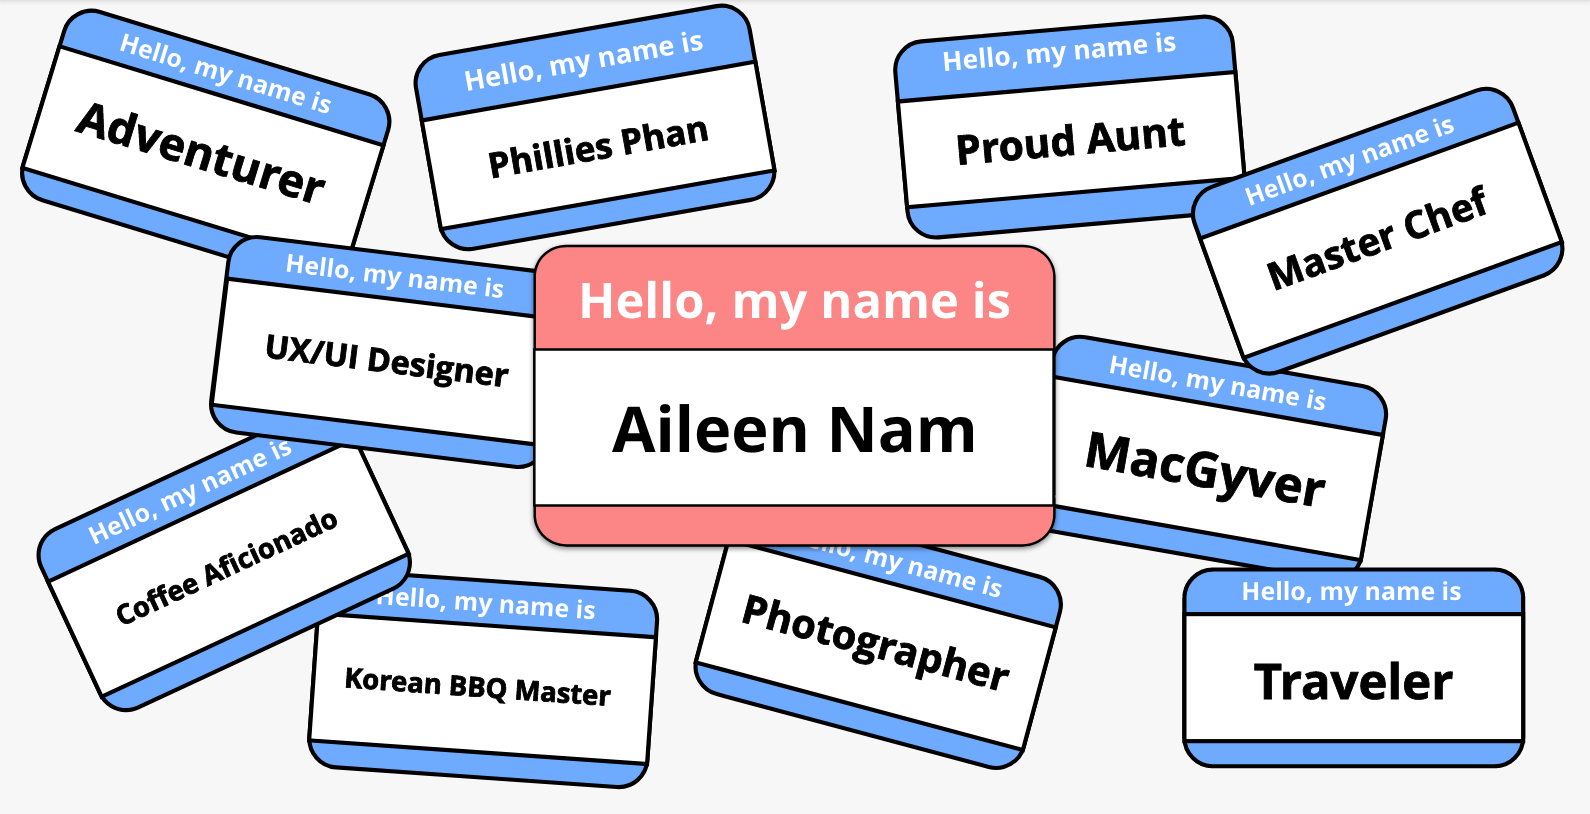
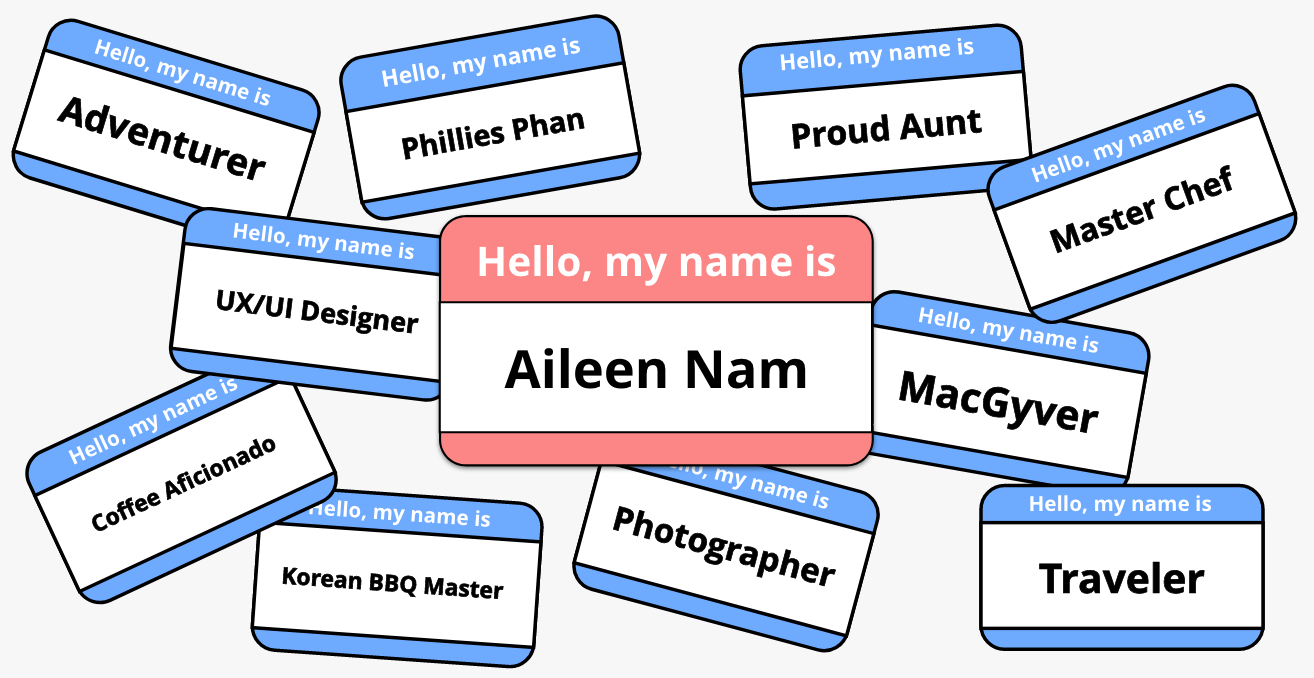
UI interaction

diff --git a/index.html b/index.html
@@ -4,52 +4,54 @@
     <title>Aileen Nam's Portfolio</title>
     <link rel="stylesheet" href="css/style.css" type="text/css">
     <link href="https://fonts.googleapis.com/css2?family=Oxygen&display=swap" rel="stylesheet">
+    <script src="https://ajax.googleapis.com/ajax/libs/jquery/3.4.1/jquery.min.js"></script>
+    <script src="js/index.js"></script>
+    <meta charset="UTF-8">
 </head>
 <body>
     <nav>
         <div class="logo">
             <img src="images/logo.png" width="75px" height="75px">
-            <p>Aileen Nam</p>
+            <p><a href="#hero" class="slide-selection">Aileen Nam</a></p>
         </div>
         <div class="navigation">
             <ul>
-                <li>About Me</li>
-                <li>My Work</li>
-                <li>Say Hi</li>
+                <li><a href="#about" class="slide-selection">About Me</a></li>
+                <li><a href="#work" class="slide-selection">My Work</a></li>
+                <li><a href="#contact" class="slide-selection">Say Hi</a></li>
             </ul>
         </div>
     </nav>
-    </header>
-    <section class="heroImg">
-        <div class="content">
-            <img src="images/hero.png" alt="name tags" width="100%">
-        </div>
+    <section id="hero">
+            <img class="heroImg" src="images/hero.png" alt="" width="95%">
     </section>
-    <section class="aboutmeContainer">
+    <section class="aboutmeContainer" id="about">
         <div class="left">
             <img class="propic" src="images/propic.jpeg" alt="my picture" width="400px" height="500px">
         </div>
         <div class="right">
-            <h1 class="aboutme"><strong>HELLO! <br>My name is Aileen.</strong></h1>
-            <p class="aboutme">I’m a Korean-American UX/UI designer 
-                currently living in: <br><s>Philly</s> 
-                <br><s>Seoul</s> 
-                <br>the DMV area. 
-                <br>
-                <br>
+            <img src="images/Group 1.svg" alt="" width="400px">
+            <p class="aboutme">I’m a
+                    <td>&#127472;&#127479;
+                    <td>&#x1F1FA;&#x1F1F8;
+            UX/UI designer currently living in: <br><s>Philly</s> 
+            <br><s>Seoul</s> 
+            <br>the DC area. 
+            <br>
+            <br>
                 Like myself, I acknowledge that people 
                 come from different backgrounds and 
                 experiences. I love meeting new people
                 and listening to their stories. That’s why I
-                aspire to work with all people to create
-                products for all people.</p>
+                aspire to work to create
+                products and experiences that improve the lives of all people.</p>
             <button class="resume">Download Resume</button>
-            </div>
+        </div>
     </section>
-    <section class="mywork">
+    <section class="mywork" id="work">
         <div class="myworkContainer">
             <div class="ESI">
-                <img src="images/ESI.png" alt="" width="300px" height="200px">
+                <img src="images/ESI.png" alt="" width="350px" height="300px">
                 <h3>ESI Website Redesign</h3>
                 <h4>Non-Profit Organization Website Redesign</h4>
                 <p>Redesigning the UX and UI elements of an NPO website to raise more awareness to their cause and increase the number of supporters.</p>
@@ -70,18 +72,16 @@
             </div>
         </div>
     </section>
-    <footer>
-        <h1 class="contact">Feel free to get in touch with any opportunities,
-            <br>or to just say hi!
+    <section>
+        <h1 class="contact" id="contact">Feel free to get in touch with any opportunities, or to just say &#128075; !
         </h1>
         <br>
         <p class="contact"><a href="mailto:aileen.nam@gmail.com">aileen.nam@gmail.com</a></p>
         <br>
         <img class="icon" src="images/linkedin.png" alt="linkedin logo">
         <img class="icon" src="images/medium.png" alt="meduim logo">
-        <br>
-        <br>
-        <br>
+    </section>
+    <footer>
         <p>&copy; Aileen Nam 2020</p>
     </footer>
 </body>

diff --git a/css/style.css b/css/style.css
@@ -1,17 +1,30 @@
 body {
     background-color: whitesmoke;
-    font-family: 'Oxygen', sans-serif;
+    font-family: 'Open Sans', sans-serif;
     padding: 0;
     margin: 0;
 }
 
 h1  {
-    font-size: 30pt;
+    font-size: 40pt;
+}
+
+h2 {
+    font-size: 36pt;
+}
+
+h3 {
+    font-size: 20pt;
 }
 
 h4 {
-    line-height: 0;
+    font-size: 18pt;
 }
+
+p {
+    font-size: 17pt;
+}
+
 
 /* Navigation */
 
@@ -45,16 +58,12 @@ nav {
 }
 
 .navigation li {
-    padding: 20px;
+    margin-left: 50px;
 }
 
 .heroImg {
-    height: auto;
-    padding: auto;
-}
-
-.content {
-    margin: 0 auto;
+    padding-left: 13%;
+    margin: -100px;
 }
 
 /* About Me */
@@ -63,24 +72,25 @@ nav {
     display: flex;
     justify-content: center;
     border-style: solid;
-    border-width: 150px;
-    border-top-width: 200px;
-    border-bottom-width: 200px;
+    border-width: 100px;
     border-color: #6EABFF;
-    background-color: whitesmoke;
-    margin: auto;
+    background-color: white;
+    margin: 8%;
+    padding-top: 80px;
+    padding-bottom: 80px;
 }
 
  .right {
     width: 50%;
     justify-content: center;
-    margin: auto;
+    margin-left: -5%;
     padding-right: 90px;
  }
 
  .right p {
-     font-size: 15pt;
+     font-size: 17pt;
  }
+
 
  .left {
      margin: 10%;
@@ -125,23 +135,21 @@ nav {
  .mywork {
     justify-content: center;
     border-style: solid;
-    border-width: 150px;
-    border-top-width: 200px;
-    border-bottom-width: 200px;
+    border-width: 100px;
     border-color: #FC8686;
-    background-color: whitesmoke;
-    margin: auto;
+    background-color: white;
+    margin: 8%;
 }
 
 .myworkContainer {
     display: grid;
     grid-gap: 20px;
     grid-template-columns: 400px;
-    grid-template-rows: 275px 450px;
+    grid-template-rows: 420px 650px;
     grid-template-areas: 
     'ESI ESI ESI ESI'
     'mentormatch mentormatch usda usda';
-    padding: 100px 100px 100px 100px;
+    padding: 60px 60px 60px 60px;
     justify-content: space-evenly;
 }
 
@@ -165,10 +173,6 @@ nav {
     padding-bottom: 15px;
 }
 
-.ESI h3 {
-    padding-top: 40px;
-}
-
 .ESI p {
     padding-right: 30px;
 }
@@ -178,6 +182,7 @@ nav {
     border: #6EABFF;
     border-style: solid;
     border-width: 5px;
+    padding-bottom: 30px;
 }
 
 .mentormatch img {
@@ -199,10 +204,7 @@ nav {
     border-width: 5px;
 }
 
-.usda h3, .h4, .p {
-    padding-left: 30px;
-    padding-right: 30px;
-}
+
 
 .usda img {
     display: block;
@@ -212,16 +214,16 @@ nav {
     padding-bottom: 30px;
 }
 
-/* Footer */
+/* Contact Me */
 
- footer {
+ section {
      padding-top: 8px;
      padding-bottom: 8px;
     margin: 10%;
     align-items: center;
  }
 
-footer p {
+section p {
     font-size: 17pt;
 }
 
@@ -235,6 +237,10 @@ a:hover {
 
 .icon {
     display: inline-block;
+}
+
+footer p {
+    margin-left: 10%;
 }
 
 

diff --git a/index.js b/index.js
@@ -1,0 +1,13 @@
+$("document").ready("function"() {
+
+    $(".slide-selection).click("function"() {
+
+        var linkhref = $("this").attr("href");
+
+        $("html, body").animate({
+            scrollTop: $("linkhref").offest().top
+        });
+
+        e.preventDefault();
+    });
+});
